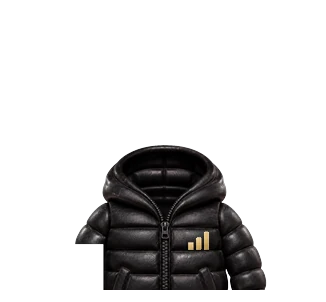
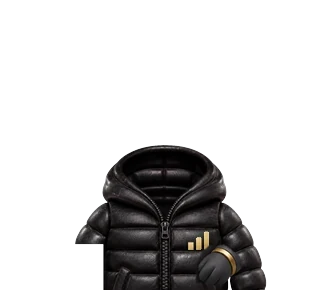
Jade: mão de baixo aparece por cima do casaco
Claude-Session: https://claude.ai/code/session_013TMrWRZdcyTywbcM9vbHLo

Changed region(s): [[0.5828, 0.8046, 0.7362, 0.9536]]

diff --git a/terminal/station/site/sw.js b/terminal/station/site/sw.js
@@ -3,9 +3,9 @@
    e usa a cópia guardada só quando está sem internet.
    Bibliotecas de CDN com versão fixa e fontes: usa a cópia guardada e atualiza por trás.
    Dados (worker, Banco Central, GitHub etc.) não passam por aqui: o site já guarda os últimos valores. */
-const CACHE = 'mm-site-v272';
+const CACHE = 'mm-site-v273';
 const CDN = 'mm-cdn-v1';
-const BASE = ['./', 'index.html', 'passe.js?v=3', 'estilo.css?v=80', 'crypto-live.js?v=2', 'forex-live.js?v=11', 'crypto-live.css?v=2', 'feriados.js?v=2', 'news-stream.js?v=1', 'app.js?v=160', 'ana-secoes.js?v=10', 'analise-avancada.js?v=1', 'ajustes.js?v=43', 'asset-history.js?v=4', 'asset-history.css?v=4', 'extras.js?v=25', 'asset-catalog.js?v=1', 'asset-search-core.js?v=2', 'asset-search.js?v=2', 'asset-search.css?v=2', 'cabecalho.js?v=2', 'noticias2.js?v=6', 'navegacao-mobile.js?v=3', 'watchlists-core.js?v=1', 'watchlists-store.js?v=2', 'watchlists-ui.js?v=2', 'watchlists-ui.css?v=2', 'mesa-layout.js?v=2', 'mesa-layout.css?v=2', 'watchlist-table-core.js?v=2', 'watchlist-table.js?v=15', 'watchlist-table.css?v=8', 'conforto.css?v=2', 'terminal.css?v=3', '/vitrine/ajuda-conteudo.js?v=2', 'educacao-conteudo.js?v=6', 'educacao.js?v=6', 'plano-livre.js?v=3', 'abas-borda.js?v=5', 'assistente.js?v=16', 'assistente-mascote.js?v=12', 'robo-extras.js?v=5', 'robo-cabeca.webp?v=1', 'robo-corpo.webp?v=1', 'robo-braco.webp?v=1', 'robo-casaco.webp?v=1', 'robo-manga.webp?v=1', 'resumo-ia.js?v=1', 'temperatura.js?v=4', 'ao-vivo-solto.js?v=3', 'ao-vivo-solto.css?v=4',
+const BASE = ['./', 'index.html', 'passe.js?v=3', 'estilo.css?v=80', 'crypto-live.js?v=2', 'forex-live.js?v=11', 'crypto-live.css?v=2', 'feriados.js?v=2', 'news-stream.js?v=1', 'app.js?v=160', 'ana-secoes.js?v=10', 'analise-avancada.js?v=1', 'ajustes.js?v=43', 'asset-history.js?v=4', 'asset-history.css?v=4', 'extras.js?v=25', 'asset-catalog.js?v=1', 'asset-search-core.js?v=2', 'asset-search.js?v=2', 'asset-search.css?v=2', 'cabecalho.js?v=2', 'noticias2.js?v=6', 'navegacao-mobile.js?v=3', 'watchlists-core.js?v=1', 'watchlists-store.js?v=2', 'watchlists-ui.js?v=2', 'watchlists-ui.css?v=2', 'mesa-layout.js?v=2', 'mesa-layout.css?v=2', 'watchlist-table-core.js?v=2', 'watchlist-table.js?v=15', 'watchlist-table.css?v=8', 'conforto.css?v=2', 'terminal.css?v=3', '/vitrine/ajuda-conteudo.js?v=2', 'educacao-conteudo.js?v=6', 'educacao.js?v=6', 'plano-livre.js?v=3', 'abas-borda.js?v=5', 'assistente.js?v=16', 'assistente-mascote.js?v=13', 'robo-extras.js?v=5', 'robo-cabeca.webp?v=1', 'robo-corpo.webp?v=1', 'robo-braco.webp?v=1', 'robo-casaco.webp?v=2', 'robo-manga.webp?v=1', 'resumo-ia.js?v=1', 'temperatura.js?v=4', 'ao-vivo-solto.js?v=3', 'ao-vivo-solto.css?v=4',
   'icone-mercado-macro.png', 'icone-192.png', 'logo-mercado-macro.png', 'logo-mercado-macro-claro.png'];
 const CDN_HOSTS = ['cdnjs.cloudflare.com', 'cdn.jsdelivr.net', 'fonts.googleapis.com', 'fonts.gstatic.com'];
 

diff --git a/terminal/station/site/assistente-mascote.js b/terminal/station/site/assistente-mascote.js
@@ -58,7 +58,7 @@
       <clipPath id="petVisor"><rect x="80" y="56" width="166" height="104" rx="32"/></clipPath>
     </defs>
     <g class="pet-tudo">
-      <g class="pet-corpo"><image href="robo-corpo.webp${V}" width="326" height="302"/><image href="robo-casaco.webp${V}" width="326" height="302"/></g>
+      <g class="pet-corpo"><image href="robo-corpo.webp${V}" width="326" height="302"/><image href="robo-casaco.webp?v=2" width="326" height="302"/></g>
       <g class="pet-braco"><image href="robo-braco.webp${V}" width="326" height="302"/><image href="robo-manga.webp${V}" width="326" height="302"/></g>
       <g class="pet-cabeca"><g class="pet-cabeca-in">
         <image href="robo-cabeca.webp${V}" width="326" height="302"/>
@@ -277,7 +277,7 @@
 
   // robô pequeno (celular e tablet): mesmas camadas, olhos simples, sem filtro
   const MINI = `<svg viewBox="0 0 326 302" aria-hidden="true">
-    <image href="robo-corpo.webp${V}" width="326" height="302"/><image href="robo-casaco.webp${V}" width="326" height="302"/>
+    <image href="robo-corpo.webp${V}" width="326" height="302"/><image href="robo-casaco.webp?v=2" width="326" height="302"/>
     <g class="mini-braco"><image href="robo-braco.webp${V}" width="326" height="302"/><image href="robo-manga.webp${V}" width="326" height="302"/></g>
     <image href="robo-cabeca.webp${V}" width="326" height="302"/>
     <rect class="mini-olho" x="107.5" y="89.5" width="17.5" height="34.3" rx="8.7" fill="#ffd86e"/>

diff --git a/terminal/station/site/index.html b/terminal/station/site/index.html
@@ -828,7 +828,7 @@
 <script src="abas-borda.js?v=5"></script>
 <script src="/vitrine/ajuda-conteudo.js?v=2"></script>
 <script src="assistente.js?v=16"></script>
-<script src="assistente-mascote.js?v=12"></script>
+<script src="assistente-mascote.js?v=13"></script>
 <script src="robo-extras.js?v=5"></script>
 <script src="ao-vivo-solto.js?v=3"></script>
 <script src="resumo-ia.js?v=1"></script>
